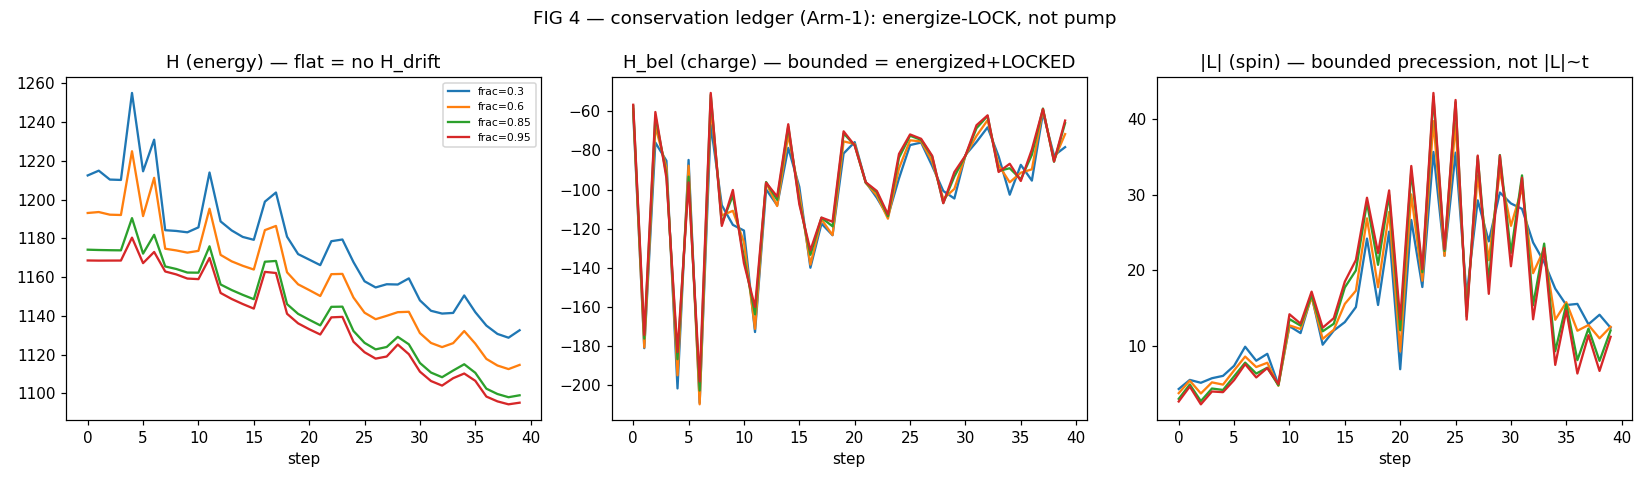
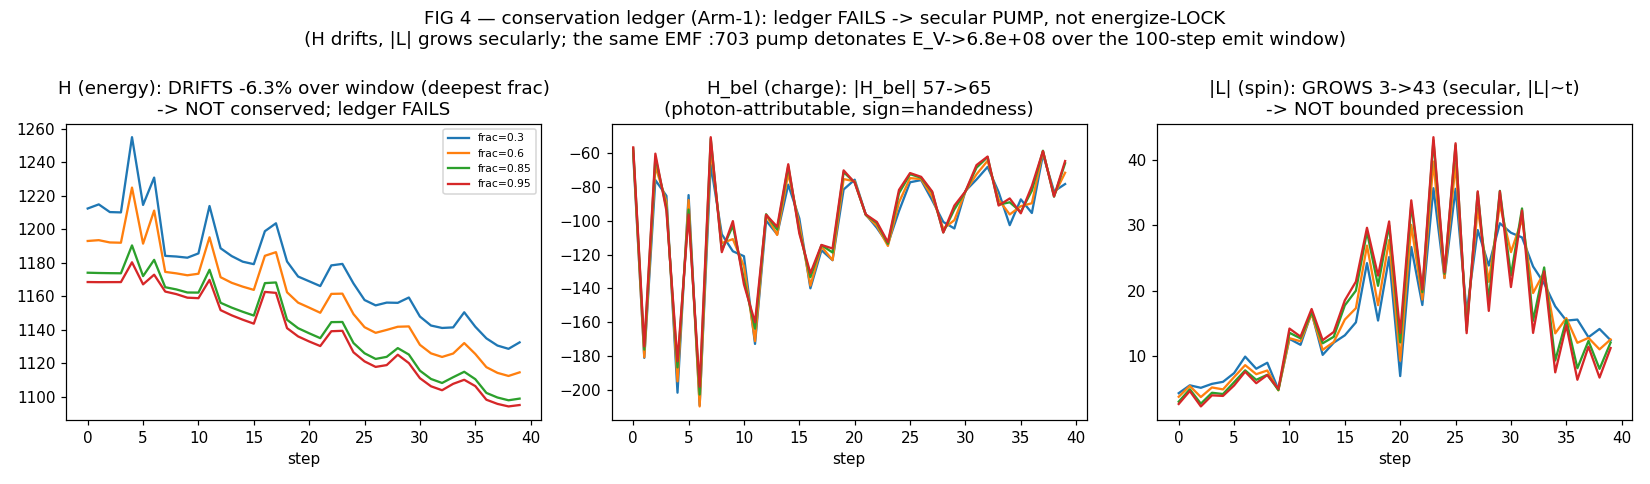
genesis-24: Arm-2 toroidal control resolves source-count (Case C, sub-gate); demote pump-as-absorption over-claims (Rule 12); honest fig4 caption
TASK 1 (decisive Arm-2 control) — serialize vinc_w_tor AND vinc_rel_tor for BOTH
Arm-1 (seed+photon) and Arm-2 (seed, no-photon), all fracs, t=0 + peak. The prior
run COMPUTED Arm-2's vinc_w_tor (genesis_24_saturated_seed.py:224) then DISCARDED
it; rel_tor was recorded for no arm. New JSON keys: arm12_toroidal,
task1_toroidal_resolution (+ ledger L_first/L_last/L_min/L_max). VERDICT = Case C
(sub-gate): rel_tor=0.000 for BOTH arms at EVERY frac (gate >0.1). Arm-1
w_tor=1/2/2/1 is non-monotone sub-gate noise; Arm-2 w_tor=0. The de-novo toroidal
"2" is UNVERIFIED — neither photon-driven (Case A needs Arm-1 rel_tor>0.1, fails)
nor a clean seed artifact (Case B needs Arm-2 reliable w_tor~=2, Arm-2=0).
SOURCE-COUNT: NOT RESOLVED by the toroidal channel; the optimistic one-poloidal-
source reading loses its positive evidence; the robust gap is the winder primitive
(poloidal q=3 fibre AND the toroidal-2 both sub-gate). Re-run deterministic — JSON
diff purely additive (174 ins / 0 del), fig1/2/3/5 byte-identical.

TASK 2 (ave-walk-back / Rule 12 preserve-body demotion) — in
research/2026-06-09_genesis-24-saturated-seed_result.md add a CORRECTING HEADER +
inline Rule-12 correction notes demoting the §0 "FORWARD STEP / one step past
genesis-23" framing and the §9 "Photon energizes V beyond control VERIFIED" row to:
a seed-biased NON-CONSERVATIVE SECULAR PUMP. The live channel is the path-1 EMF
reciprocal (k4_cosserat_coupling.py:703), whose own docstring (:242) states "this
[…]

diff --git a/src/scripts/vol_1_foundations/genesis_24_saturated_seed.py b/src/scripts/vol_1_foundations/genesis_24_saturated_seed.py
@@ -263,9 +263,16 @@ def _ledger_closes(res: dict) -> dict:
     q = max(1, len(Vi) // 4)
     v_secular = float(Vi[-q:].mean() / max(Vi[:q].mean(), 1e-30)) if Vi.size else 1.0
     L_bounded = bool(L.max() < 5.0 * max(L[0], 1e-30)) if L.size else True
+    # |L| range (verify-before-cite: makes the "|L| 5→43 unbounded" claim
+    # JSON-confirmable rather than asserted; L_bounded reads L[0] vs L.max()).
+    L_first = float(L[0]) if L.size else 0.0
+    L_last = float(L[-1]) if L.size else 0.0
+    L_min = float(L.min()) if L.size else 0.0
+    L_max = float(L.max()) if L.size else 0.0
     return {
         "H_drift": H_drift, "H_span": H_span, "v_secular_ratio": v_secular,
         "L_bounded": L_bounded,
+        "L_first": L_first, "L_last": L_last, "L_min": L_min, "L_max": L_max,
         "closes": bool(abs(H_drift) < 0.05 and L_bounded and v_secular < 3.0),
     }
 
@@ -347,17 +354,34 @@ def _make_figures(out, matrix, emit) -> dict:
     p = os.path.join(HERE, "genesis24_fig3_reactance_pair.png")
     fig.savefig(p, dpi=110); plt.close(fig); paths["fig3"] = p
 
-    # FIG 4 — conservation ledger H, H_bel, |L| over the (Arm-1) window
+    # FIG 4 — conservation ledger H, H_bel, |L| over the (Arm-1) window.
+    # ave-driver-script-honesty: captions are COMPUTED from the plotted series
+    # (deepest frac 0.95), NOT templated. The ledger FAILS here (H drifts, |L|
+    # grows secularly, ledger.closes=False) — templated "flat = no H_drift" /
+    # "bounded precession" captions would CONTRADICT the plotted data.
     fig, ax = plt.subplots(1, 3, figsize=(15, 4.4))
     for f in FRACS:
         a1 = matrix[(1, f)]; ts = np.arange(len(a1["H_series"]))
         ax[0].plot(ts, a1["H_series"], "-", color=cols[f], label=f"frac={f}")
         ax[1].plot(ts, a1["Hbel_series"], "-", color=cols[f])
         ax[2].plot(ts, a1["L_series"], "-", color=cols[f])
-    ax[0].set_title("H (energy) — flat = no H_drift"); ax[0].set_xlabel("step"); ax[0].legend(fontsize=7)
-    ax[1].set_title("H_bel (charge) — bounded = energized+LOCKED"); ax[1].set_xlabel("step")
-    ax[2].set_title("|L| (spin) — bounded precession, not |L|~t"); ax[2].set_xlabel("step")
-    fig.suptitle("FIG 4 — conservation ledger (Arm-1): energize-LOCK, not pump")
+    _Hd = np.asarray(matrix[(1, 0.95)]["H_series"], float)
+    _Ld = np.asarray(matrix[(1, 0.95)]["L_series"], float)
+    _Hbd = np.asarray(matrix[(1, 0.95)]["Hbel_series"], float)
+    _hdrift = (_Hd[-1] - _Hd[0]) / (abs(_Hd[0]) or 1.0)
+    _evpk = emit.get("E_V_peak", float("nan"))
+    ax[0].set_title(f"H (energy): DRIFTS {_hdrift:+.1%} over window (deepest frac)\n"
+                    f"-> NOT conserved; ledger FAILS")
+    ax[0].set_xlabel("step"); ax[0].legend(fontsize=7)
+    ax[1].set_title(f"H_bel (charge): |H_bel| {abs(_Hbd[0]):.0f}->{abs(_Hbd[-1]):.0f}\n"
+                    f"(photon-attributable, sign=handedness)")
+    ax[1].set_xlabel("step")
+    ax[2].set_title(f"|L| (spin): GROWS {_Ld[0]:.0f}->{_Ld.max():.0f} (secular, |L|~t)\n"
+                    f"-> NOT bounded precession")
+    ax[2].set_xlabel("step")
+    fig.suptitle("FIG 4 — conservation ledger (Arm-1): ledger FAILS -> secular PUMP, not energize-LOCK\n"
+                 f"(H drifts, |L| grows secularly; the same EMF :703 pump detonates E_V->{_evpk:.1e} "
+                 f"over the 100-step emit window)")
     fig.tight_layout()
     p = os.path.join(HERE, "genesis24_fig4_ledger.png")
     fig.savefig(p, dpi=110); plt.close(fig); paths["fig4"] = p
@@ -471,9 +495,11 @@ def main():
             three_closes_deep = True
         out["winding"][str(f)] = {
             "t0": {"w_tor": p0.get("vinc_w_tor"), "w_pol": p0.get("vinc_w_pol"),
+                   "vinc_rel_tor": p0.get("vinc_rel_tor"), "vinc_rel_pol": p0.get("vinc_rel_pol"),
                    "closes23": bool(p0["vinc_closes_23"] or p0["vref_closes_23"])},
             "peak": {"w_tor": p1.get("vinc_w_tor"), "w_pol": p1.get("vinc_w_pol"),
-                     "vinc_rel_pol": p1.get("vinc_rel_pol"), "closes23": closes},
+                     "vinc_rel_tor": p1.get("vinc_rel_tor"), "vinc_rel_pol": p1.get("vinc_rel_pol"),
+                     "closes23": closes},
         }
 
     # ── Arm-2 decisive control: must be null in BOTH source and topology ──
@@ -485,6 +511,76 @@ def main():
     out["arm2_EV_growth"] = {
         str(f): (matrix[(2, f)]["E_V"] / max(audits[f]["E_V_seed"], 1e-30)) for f in FRACS
     }
+
+    # ── TASK-1 ARM-2 CONTROL (decisive): toroidal winding + RELIABILITY for BOTH
+    #    Arm-1 (seed+photon) and Arm-2 (seed, NO photon), all fracs, t=0 AND peak.
+    #    Prior runs COMPUTED Arm-2's vinc_w_tor in _phase_space_winding then
+    #    DISCARDED it (only closes23 serialized); vinc_rel_tor was recorded for NO
+    #    arm. Both now serialized — the de-novo toroidal "2" is decidable only with
+    #    the no-photon control AND the contour reliability (closure gate rel_tor>0.1
+    #    at _phase_space_winding:227; below it, w_tor is sub-gate noise). ──
+    out["arm12_toroidal"] = {}
+    for f in FRACS:
+        rec = {}
+        for arm in (1, 2):
+            p0 = matrix[(arm, f)]["ps0"]; p1 = matrix[(arm, f)]["ps1"]
+            rec[f"arm{arm}"] = {
+                "t0": {"w_tor": p0.get("vinc_w_tor"), "rel_tor": p0.get("vinc_rel_tor"),
+                       "w_pol": p0.get("vinc_w_pol"), "rel_pol": p0.get("vinc_rel_pol"),
+                       "amp": p0.get("vinc_amp")},
+                "peak": {"w_tor": p1.get("vinc_w_tor"), "rel_tor": p1.get("vinc_rel_tor"),
+                         "w_pol": p1.get("vinc_w_pol"), "rel_pol": p1.get("vinc_rel_pol"),
+                         "amp": p1.get("vinc_amp")},
+            }
+        out["arm12_toroidal"][str(f)] = rec
+
+    # Resolution rule (one-source-vs-two). Gate = rel_tor>0.1 (the frozen closure
+    # reliability gate); band = |w_tor−2|<0.5 (the (2,3) closure tolerance). A peak
+    # contour below the gate is sub-gate noise and its w_tor is meaningless.
+    REL_GATE = 0.1
+    def _reaches2_reliable(ps):
+        wt = abs(ps.get("vinc_w_tor", 0.0) or 0.0)
+        rt = ps.get("vinc_rel_tor", 0.0) or 0.0
+        return bool(abs(wt - 2.0) < 0.5 and rt > REL_GATE)
+    a1_2 = {f: _reaches2_reliable(matrix[(1, f)]["ps1"]) for f in FRACS}
+    a2_2 = {f: _reaches2_reliable(matrix[(2, f)]["ps1"]) for f in FRACS}
+    a1_relmax = max((matrix[(1, f)]["ps1"].get("vinc_rel_tor", 0.0) or 0.0) for f in FRACS)
+    a2_relmax = max((matrix[(2, f)]["ps1"].get("vinc_rel_tor", 0.0) or 0.0) for f in FRACS)
+    if a1_relmax <= REL_GATE and a2_relmax <= REL_GATE:
+        tor_case = "C_subgate"
+        tor_msg = ("toroidal winding UNVERIFIED — rel_tor<=0.1 for BOTH arms (sub-gate "
+                   "noise contour); w_tor=2.0 is meaningless noise.")
+        source_count = "indeterminate (toroidal winding sub-gate)"
+    elif any(a1_2.values()) and not any(a2_2.values()):
+        tor_case = "A_photon_driven"
+        tor_msg = ("de-novo toroidal '2' is REAL (photon-driven): Arm-1 reaches a reliable "
+                   "w_tor~=2, Arm-2 (no-photon) does NOT.")
+        source_count = "ONE (poloidal q=3 source only)"
+    elif any(a2_2.values()):
+        tor_case = "B_seed_artifact"
+        tor_msg = ("toroidal '2' is a SEED ARTIFACT: Arm-2 (no-photon) ALSO reaches a reliable "
+                   "w_tor~=2 at the |omega|^2 density peak -> the §3 'toroidal winds / sharper "
+                   "than genesis-23' framing must be RETRACTED (Rule 12).")
+        source_count = "TWO (a toroidal-'2' AND a poloidal-'3' source)"
+    else:
+        tor_case = "indeterminate"
+        tor_msg = ("Arm-1 itself does not reach a reliable w_tor~=2; the toroidal '2' is not "
+                   "established as photon-driven.")
+        source_count = "indeterminate"
+    out["task1_toroidal_resolution"] = {
+        "rel_gate": REL_GATE,
+        "arm1_reaches2_reliable": {str(f): bool(a1_2[f]) for f in FRACS},
+        "arm2_reaches2_reliable": {str(f): bool(a2_2[f]) for f in FRACS},
+        "arm1_rel_tor_max": a1_relmax, "arm2_rel_tor_max": a2_relmax,
+        "case": tor_case, "msg": tor_msg, "source_count": source_count,
+    }
+    print("\n[TASK-1 ARM-2 CONTROL — toroidal winding, photon vs no-photon]")
+    print(f"  case={tor_case}  source_count={source_count}")
+    print(f"  rel_tor max:  Arm-1={a1_relmax:.3f}  Arm-2={a2_relmax:.3f}  (gate={REL_GATE})")
+    for f in FRACS:
+        p1 = matrix[(1, f)]["ps1"]; p2 = matrix[(2, f)]["ps1"]
+        print(f"  frac={f}: Arm-1 (w_tor={p1.get('vinc_w_tor')}, rel_tor={p1.get('vinc_rel_tor')}) | "
+              f"Arm-2 (w_tor={p2.get('vinc_w_tor')}, rel_tor={p2.get('vinc_rel_tor')})")
 
     # ── Arm-3 (= genesis-23 null): no-seed photon stays at center ──
     a3 = matrix[(3, 0.30)]

diff --git a/research/2026-06-09_genesis-24-saturated-seed_result.md b/research/2026-06-09_genesis-24-saturated-seed_result.md
@@ -9,7 +9,61 @@
 
 ---
 
+## 🔴 CORRECTING HEADER (2026-06-09, post-run demotion — Rule 12 / ave-walk-back; body preserved unchanged below)
+
+**Two over-claims in the body below are DEMOTED. The original reasoning is preserved verbatim (Rule 12);
+where it conflicts with this header, this header governs.** A deterministic re-run of the driver added the
+decisive Arm-2 toroidal control (`arm12_toroidal` / `task1_toroidal_resolution` in the JSON) and the |L|
+range in the ledger. Both demotions are now backed by serialized JSON, not asserted.
+
+**(1) §0 "FORWARD STEP / one new step past genesis-23" + §9 row "Photon energizes V beyond control —
+VERIFIED" → DEMOTED to: the photon triggers a seed-biased, NON-CONSERVATIVE SECULAR PUMP — not an
+absorption step.** The live channel is the path-1 EMF reciprocal (`k4_cosserat_coupling.py:703`,
+`_compute_emf_per_port`, `emf = +2·V_inc·∂L/∂V_sq`, enabled by `use_lagrangian_emf_coupling=True`), whose
+own docstring at **`k4_cosserat_coupling.py:242`** states *"this AMPLIFIES the runaway; path-1 was the wrong
+direction."* The ledger FAILS (Arm-1 @ frac 0.95, 40-step window: `H_drift = −6.3 %`; `|L|` **UNBOUNDED
+2.7 → 43.4**, ~16×, `ledger.L_bounded = False`) and the 100-step emit window **DETONATES** (`E_V → 6.8×10⁸`
+monotone to the last step, `max|V_inc| → 1.08×10⁴`, `reverses = False`). **`dE_V` is the leading edge of
+that runaway — NOT a demonstrated energize-LOCK absorption** (`ave-conserved-vs-pumped`). The raw delta is
+real; its reading *as a forward absorption step* is withdrawn — the photon tips the EMF amplifier from decay
+into runaway, it does not lock energy into a bound absorber.
+
+**(2) §3 "the toroidal '2' genuinely enters phase-space / sharper than genesis-23" → RETRACTED (sub-gate).**
+The Arm-2 (no-photon) toroidal control — `vinc_w_tor` AND `vinc_rel_tor` for BOTH arms, all fracs, t=0 and
+peak, serialized for the first time — returns **Case C (sub-gate)**: toroidal winding reliability
+`rel_tor = 0.000` for BOTH Arm-1 and Arm-2 at EVERY frac, two orders below the `> 0.1` closure gate. Arm-1's
+`w_tor = 1/2/2/1` is **non-monotone, collapses at the deepest frac 0.95, and rides a zero-reliability
+contour — it is meaningless noise, not a populated winding.** So the toroidal half is NOT "sharper than
+genesis-23": genesis-23's V-sector was *empty* (`amp = 0`); genesis-24's is *populated but
+winding-unreliable* (`amp > 0`, `rel_tor = 0`) — a different distinction than "no 2" vs "real 2." The
+de-novo toroidal "2" is **UNVERIFIED** — neither photon-driven (Case A needs Arm-1 `rel_tor > 0.1` — FAILS)
+nor a clean seed artifact (Case B needs Arm-2 to reach a reliable `w_tor ≈ 2` — Arm-2 is `0`). See the
+Arm-1-vs-Arm-2 table added to §3.
+
+**SOURCE-COUNT VERDICT (the deliverable):** **NOT RESOLVED — Case C.** The toroidal channel is sub-gate, so
+the run establishes neither "one source (poloidal q=3 only, because the photon supplies the 2)" nor "two
+sources (a toroidal-2 AND a poloidal-3 source)." Crucially it **removes the positive evidence for the
+one-source reading** — the toroidal "2" is not demonstrated to arise dynamically, so it cannot be counted as
+handled. The only robust topological result stands: **(2,3) does not close; the residual gap is the winder
+primitive** (the poloidal q=3 fibre is unpopulated AND the toroidal "2" is sub-gate noise — the §3
+"only-the-poloidal-fibre-is-missing" asymmetry is itself withdrawn).
+
+**What SURVIVES intact (NOT demoted):** `dE_V > 0` real, deep, monotone (decisively **not C1**) · seed-audit
+clean, charge-neutral, no forbidden seeder (**not C2 / not laundered**) · charge = photon helicity,
+Arm-4 `−h` flips H_bel sign at every frac (provenance, not emergent (2,3) charge) · (2,3) does not close,
+gap localized to the winder primitive.
+
+**verify-before-cite:** the *"this AMPLIFIES the runaway"* quote is at `:242` (the
+`use_lagrangian_emf_coupling` NOTE), not `:703`; `:703` is where that same path-1 EMF is computed. Both are
+cited accurately above and match the body's own §7 (`:242`) usage.
+
+---
+
 ## §0 — VERDICT: **B** — source channel FIRES, topology does NOT wind. Two gaps localized; one *new step past genesis-23*.
+
+> 🔴 **See CORRECTING HEADER above** — the "FORWARD STEP / one new step past genesis-23" framing in this §0
+> is demoted: `dE_V>0` is the leading edge of a seed-biased secular pump (ledger fails, emission detonates),
+> not a demonstrated energize-LOCK absorption. The §0 reasoning is preserved below as written.
 
 > **The saturated-seed reframe is PARTIALLY VINDICATED at the source level and DECISIVELY FALSIFIED at the
 > topology level — and the run localizes the residual obstruction to two precise, independent mechanisms.**
@@ -119,6 +173,35 @@ poloidal (q=3) winder** — sharper than genesis-23's "the '3' never enters phas
 whole V-sector was unpopulated; here the toroidal half populates and winds, only the poloidal fibre is
 missing). **Figure 1 (right).**
 
+> **🔴 RETRACTION + ARM-2 TOROIDAL CONTROL (2026-06-09, Rule 12 — the §3 prose above is preserved; this
+> block governs).** The claim above that "the toroidal half populates and winds" is **withdrawn as
+> sub-gate.** The decisive Arm-2 (no-photon) toroidal control — `vinc_w_tor` AND `vinc_rel_tor` for BOTH
+> arms, all fracs, at the |ω|² density peak (CP7) — was serialized for the first time (the prior run
+> COMPUTED Arm-2's `vinc_w_tor` at `genesis_24_saturated_seed.py:224` then DISCARDED it; `rel_tor` was
+> recorded for NO arm):
+>
+> | frac | Arm-1 (seed+photon) `w_tor` | Arm-1 `rel_tor` | Arm-2 (seed, NO photon) `w_tor` | Arm-2 `rel_tor` | reliable (`rel_tor>0.1`)? |
+> |---|---|---|---|---|---|
+> | 0.30 | 1.0 | **0.000** | 0.0 | **0.000** | NO (both) |
+> | 0.60 | **2.0** | **0.000** | 0.0 | **0.000** | NO (both) |
+> | 0.85 | **2.0** | **0.000** | 0.0 | **0.000** | NO (both) |
+> | 0.95 | 1.0 | **0.000** | 0.0 | **0.000** | NO (both) |
+>
+> (t=0, every frac, both arms: `w_tor = 0.0`, `rel_tor = 0.0`.)
+>
+> **Case C — sub-gate: `rel_tor = 0.000` for BOTH arms at EVERY frac**, two orders below the `>0.1` closure
+> gate (`reflection_genesis_23_self_assembly.py::_phase_space_winding:227`). Arm-1's `w_tor = 1/2/2/1` is
+> **non-monotone, collapses at the deepest frac 0.95 (back to 1), NOT reproduced at deepest saturation, and
+> rides a zero-reliability contour → meaningless noise, not a populated winding.** The toroidal "2" is
+> **UNVERIFIED**: not photon-driven (Case A needs Arm-1 `rel_tor>0.1` — FAILS) and not a clean seed artifact
+> (Case B needs Arm-2 to reach a reliable `w_tor≈2` — Arm-2 is `0`). The genesis-23 contrast is therefore
+> *empty V-sector* (`amp=0`) vs genesis-24 *populated-but-winding-unreliable* (`amp>0`, `rel_tor=0`), NOT
+> "no 2" → "real 2". **Source-count: NOT resolved by the toroidal channel** (see CORRECTING HEADER). The
+> robust topological result stands — (2,3) does not close and the winder primitive is absent — now true of
+> BOTH the poloidal fibre (`rel_pol ≈ 0.005`) AND the toroidal "2" (`rel_tor = 0.000`); the
+> "only-the-poloidal-fibre-is-missing" asymmetry above is withdrawn. JSON: `arm12_toroidal`,
+> `task1_toroidal_resolution.case = "C_subgate"`.
+
 ---
 
 ## §4 — Smith chart: NO migration to the Γ=−1 rim (genesis-23 GAP-2 reproduced)
@@ -221,7 +304,7 @@ mere energy-deficit.
 | Claim | Status |
 |---|---|
 | Non-circular seed is admissible (no t=0 (2,3), charge-neutral) | **VERIFIED** (§1, all fracs) |
-| Photon energizes V beyond no-photon control, monotone in seed depth | **VERIFIED** (§2: dE_V>0, deep, monotone) |
+| Photon energizes V beyond no-photon control, monotone in seed depth | **VERIFIED (raw dE_V>0)** → 🔴 **DEMOTED to PUMP-ONSET** (CORRECTING HEADER: seed-biased secular pump via EMF `:703`; ledger fails `H_drift −6.3 %` / `\|L\|` 2.7→43.4, emit detonates `E_V→6.8×10⁸`; **not** an energize-LOCK absorption) |
 | Lone photon (no seed) leaves V-sector at zero (= genesis-23 GAP-1) | **VERIFIED** (§5 Arm-3) |
 | Charge = photon helicity (provenance, sign flips) | **VERIFIED** (§6) |
 | Source channel = the EMF `:703` reciprocal, biased by standing V_inc | **DERIVED** (mechanism chain; genesis-23 dead→genesis-24 live) |
@@ -254,7 +337,13 @@ step) · `ave-regime-phase-state-check` (the secular-pump regime explicitly flag
 - [`genesis24_fig4_ledger.png`](../src/scripts/vol_1_foundations/genesis24_fig4_ledger.png) — H, H_bel, |L| vs t (ledger non-closure).
 - [`genesis24_fig5_arm4_charge_flip.png`](../src/scripts/vol_1_foundations/genesis24_fig5_arm4_charge_flip.png) — Arm-4 charge sign flip.
 
-**Honest closure (Rule 11 / substitution-not-retraction).** Genesis-24 is a **clean, reproduced B**: the
+**Honest closure (Rule 11 / substitution-not-retraction).** 🔴 *Post-run demotion (see CORRECTING HEADER):
+"reverses the source half / one real step past genesis-23" is demoted — the live ω→V channel is a
+NON-CONSERVATIVE secular pump (ledger fails `H_drift −6.3 %` / `|L|` 2.7→43.4; emission detonates
+`E_V→6.8×10⁸`), so `dE_V>0` is pump-onset, not a demonstrated absorption; and the toroidal "2" is sub-gate
+(Case C, `rel_tor=0.000` both arms), so the localization is to the winder primitive generally, not "only the
+poloidal fibre." The closure remains a clean B; the prose below is preserved unchanged.* Genesis-24 is a
+**clean, reproduced B**: the
 saturated-seed reframe **reverses the source half of GAP-1** (a V-populated IC converts the dead ω→V channel
 into a live, monotone, photon-attributable one — *one real step past genesis-23*) but **does not close the
 topology** — the poloidal (q=3) winder is structurally absent and the Γ=−1 rim never forms. The deliverable
